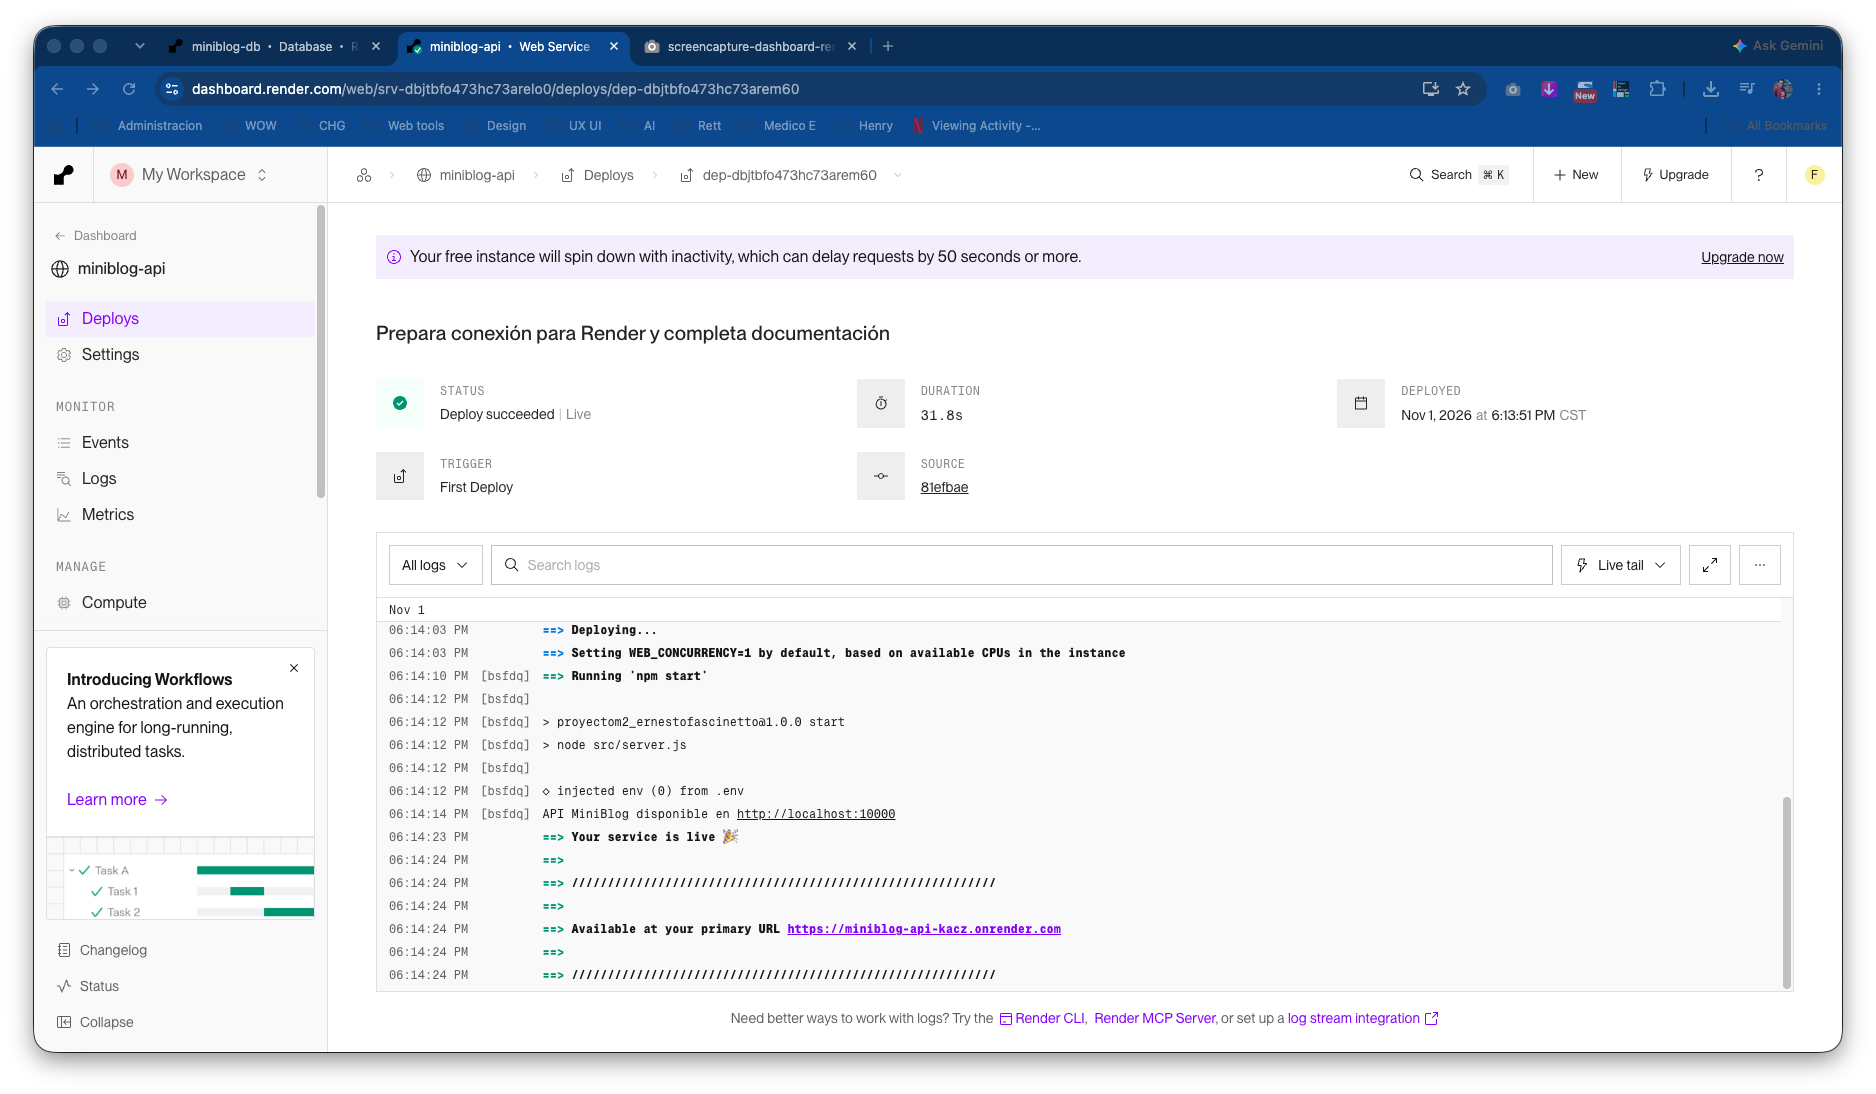
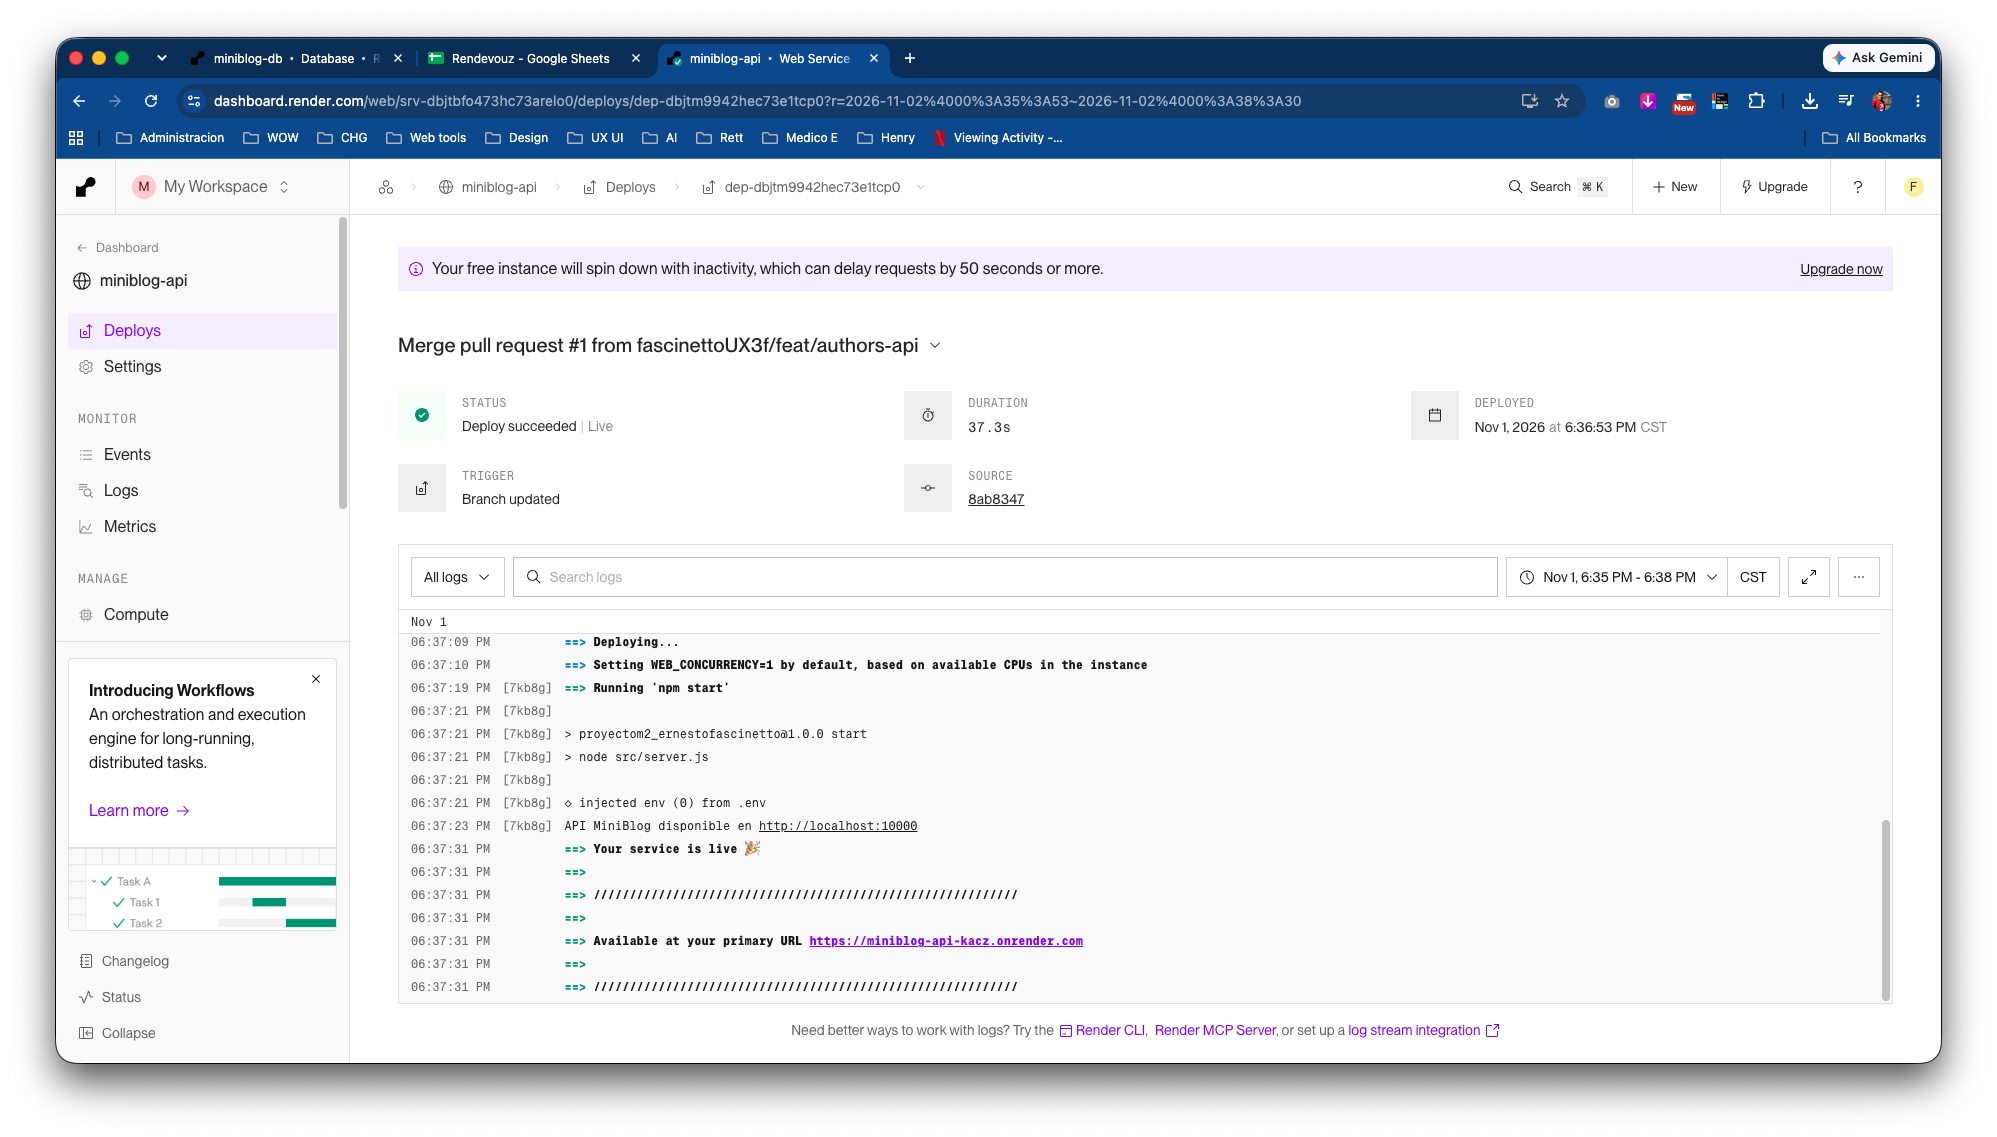
Actualiza README y evidencia del despliegue desde main

diff --git a/README.md b/README.md
@@ -231,7 +231,7 @@ Se utilizó Render como alternativa porque Railway tenía suspendido el registro
 
    | Campo | Valor |
    |---|---|
-   | Rama desplegada | `feat/authors-api` |
+   | Rama desplegada | `main` |
    | Región | Oregon |
    | Lenguaje | Node |
    | Root Directory | Vacío |
@@ -245,7 +245,9 @@ Se utilizó Render como alternativa porque Railway tenía suspendido el registro
 
 4. Desplegar y verificar `/authors`, `/posts`, `/docs/` y `/openapi.json` en la URL pública. Los dos primeros endpoints deben devolver los datos del seed.
 
-El servicio está conectado a `feat/authors-api`; al integrar el PR, cambiar la rama de despliegue a `main` en Render para publicar futuros cambios desde la rama principal.
+El [PR #1](https://github.com/fascinettoUX3f/ProyectoM2_ErnestoFascinetto/pull/1) está integrado. Render despliega desde `main` y el despliegue fue verificado con consultas públicas de autores, publicaciones y OpenAPI. La especificación documenta las 11 operaciones de la API.
+
+La validación local incluye 14 pruebas con consultas simuladas y 2 pruebas de integración aprobadas.
 
 ### Límites de la instancia gratuita
 
